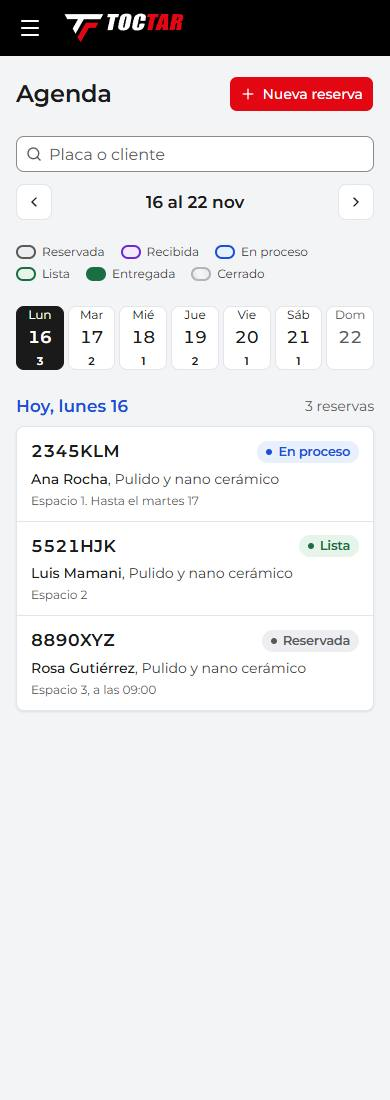
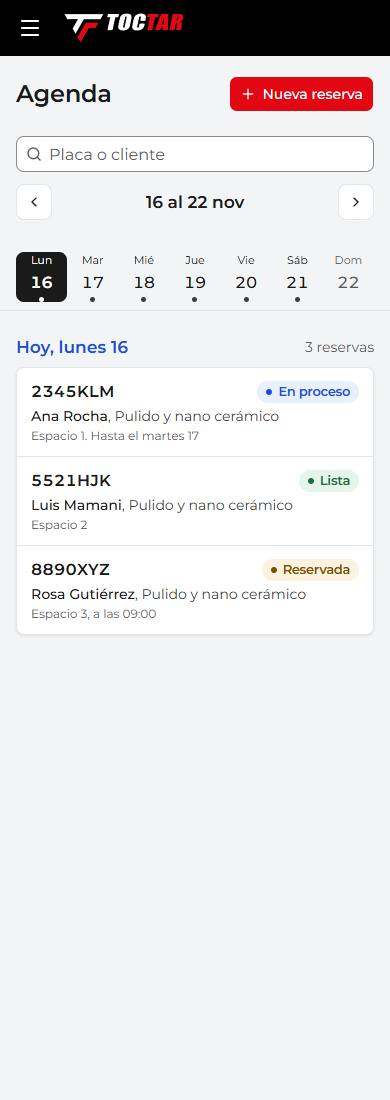
feat: Reservada en ámbar y el día del celular con la tira de días del prototipo
- Reservada, en ámbar en todo el panel; Cancelada, en rojo suave (para no repetir el ámbar).
- Celular: la tira de los siete días con un punto en los que tienen reservas, fija arriba; las reservas como en el
  prototipo y los espacios libres juntos en una fila con "Reservar". La guía de colores, solo desde la tableta.

Changed region(s): [[0.0308, 0.2164, 0.9538, 0.6491], [0.5538, 0.2164, 0.7077, 0.34], [0.5538, 0.5873, 0.5846, 0.6182]]

diff --git a/src/modulos/agenda/componentes/tablero.tsx b/src/modulos/agenda/componentes/tablero.tsx
@@ -28,7 +28,8 @@ import { conDesde } from "@/lib/volver";
 //   "Reservar" aparece al pasar el mouse o con el foco), hoy se marca en su encabezado y un día cerrado, una sola vez.
 //   Cada reserva dice placa, cliente, servicio y estado (con palabra, no solo color).
 // - Tableta y laptop chica (768 a 1279 px): la semana como lista por día ("Hoy", "Mañana", "Miércoles 18"), sin tocar pestañas.
-// - Celular: los siete días como pestañas con cuántas reservas tiene cada uno, y el día elegido en una tarjeta.
+// - Celular: la tira de los siete días (un punto en los que tienen reservas), fija arriba, y el día elegido en una
+//   tarjeta, con los espacios libres juntos en una fila.
 // Todo es texto y enlaces: se lee igual con lector de pantalla.
 
 type Props = {
@@ -73,13 +74,12 @@ function textoTramo(r: Pick<ReservaTablero, "inicio" | "fin">, dia: string) {
 
 /**
  * El color de un bloque en la grilla: el de su estado (las clases tt-tono-* de globals.css, las mismas de las
- * insignias). La reservada, gris con borde (16/11: blanca, no se distinguía bien). La entregada, sólida en verde
- * (pedido 28). La guía de colores (GuiaColores) usa estos mismos.
+ * insignias). La reservada, en ámbar (16/11: blanca no se distinguía de un día libre; gris, de uno cerrado). La
+ * entregada, sólida en verde (pedido 28). La guía de colores (GuiaColores) usa estos mismos.
  */
 function colorBloque(estado: ReservaTablero["estado"]) {
   const tono = TONO_ESTADO_TRABAJO[estado] ?? "neutro";
   if (estado === "entregado") return { tono, clase: "tt-tono-exito border-transparent bg-exito text-fondo", texto: "text-fondo", punto: "bg-fondo" };
-  // La reservada, en el gris de su insignia y con borde: no se confunde con un día libre (blanco) ni con uno cerrado (rayas)
   if (tono === "neutro") return { tono, clase: "tt-tono-neutro border-input bg-neutro-fondo", texto: "text-tinta-suave", punto: "bg-tinta-suave" };
   return { tono, clase: `tt-tono-${tono} border-transparent bg-[var(--tono-fondo)]`, texto: "text-[var(--tono)]", punto: "bg-[var(--tono)]" };
 }
@@ -306,36 +306,33 @@ export function SemanaEnLista({ semana, dias, hoy, conOrdenes, desde }: Props) {
 }
 
 /**
- * Celular: los siete días como pestañas (enlaces: el día va en la dirección). Cada una dice cuántas reservas tiene ese
- * día, o "libre" (antes un punto, que salía en casi todos los días y no decía cuál estaba lleno). Hoy, en azul.
+ * Celular: la tira de los siete días (prototipo aprobado el 16/11): el día de la semana en chico, el número y un punto en
+ * los días con reservas. Hoy, en azul; el elegido, en negro. Queda fija arriba al bajar. Cada día es un enlace (el día va
+ * en la dirección).
  */
 export function PestanasDias({ semana, dias, hoy, dia, enlace }: { semana: SemanaDeAgenda; dias: string[]; hoy: string; dia: string; enlace: (dia: string) => Route }) {
-  const conActivos = semana.espacios.some((e) => e.activo);
   return (
-    <nav aria-label="Días de la semana" className="-mx-4 overflow-x-auto px-4 md:hidden">
-      <ul className="grid min-w-max grid-cols-7 gap-1">
+    <nav aria-label="Días de la semana" className="sticky top-0 z-20 -mx-4 border-b border-border bg-fondo-panel px-4 py-2 md:hidden">
+      <ul className="grid grid-cols-7">
         {dias.map((d, i) => {
           const cerrado = semana.diasCerrados.includes(diaDeLaSemana(d));
           const n = delDia(semana, d).length;
           const elegido = d === dia;
-          const cuenta = n > 0 ? String(n) : cerrado || d < hoy || !conActivos ? "" : "libre";
+          const esHoy = d === hoy;
           return (
             <li key={d}>
               <Link
                 href={enlace(d)}
                 aria-current={elegido ? "date" : undefined}
-                aria-label={`${textoDia(d)}${d === hoy ? ", hoy" : ""}${n > 0 ? `, ${cantidad(n, "reserva", "reservas")}` : cerrado ? ", cerrado" : ", sin reservas"}`}
+                aria-label={`${textoDia(d)}${esHoy ? ", hoy" : ""}${n > 0 ? `, ${cantidad(n, "reserva", "reservas")}` : cerrado ? ", cerrado" : ", sin reservas"}`}
                 className={cn(
-                  "flex min-h-16 min-w-11 flex-col items-center justify-center gap-0.5 rounded-lg border px-1",
-                  elegido ? "border-tinta bg-tinta text-fondo" : "border-border bg-fondo",
-                  !elegido && cerrado && "text-tinta-suave",
+                  "flex min-h-12 flex-col items-center justify-center gap-0.5 rounded-lg",
+                  elegido ? "bg-tinta text-fondo" : esHoy ? "bg-info-fondo text-info" : cerrado ? "text-tinta-suave" : "text-tinta",
                 )}
               >
-                <span className="text-xs">{DIA_CORTO[i]}</span>
-                <span className={cn("text-[1.0625rem] tabular-nums", d === hoy || elegido ? "font-bold" : "font-medium", d === hoy && !elegido && "text-info")}>{numeroDia(d)}</span>
-                <span aria-hidden className={cn("min-h-4 text-[0.6875rem]", n > 0 ? "font-semibold" : elegido ? "text-fondo/80" : "text-tinta-suave")}>
-                  {cuenta}
-                </span>
+                <span className="text-[0.6875rem]">{DIA_CORTO[i]}</span>
+                <span className={cn("text-base tabular-nums", esHoy || elegido ? "font-bold" : "font-medium")}>{numeroDia(d)}</span>
+                <span aria-hidden className={cn("size-[5px] rounded-full", n > 0 ? (elegido ? "bg-fondo" : "bg-tinta-media") : "bg-transparent")} />
               </Link>
             </li>
           );
@@ -345,67 +342,52 @@ export function PestanasDias({ semana, dias, hoy, dia, enlace }: { semana: Seman
   );
 }
 
-/** Celular: un día en una tarjeta, una fila por espacio. Las pestañas de los días van arriba (PestanasDias). */
+/**
+ * Celular: el día elegido en una tarjeta (prototipo del 16/11): las reservas por espacio (placa y estado; cliente y
+ * servicio; el espacio, la hora y hasta cuándo sigue) y, al final, los espacios libres juntos en una sola fila con
+ * "Reservar". Las pestañas de los días van arriba (PestanasDias).
+ */
 export function AgendaDelDia({ semana, dia, hoy, conOrdenes, desde }: { semana: SemanaDeAgenda; dia: string; hoy: string; conOrdenes: boolean; desde: string }) {
   const cerrado = semana.diasCerrados.includes(diaDeLaSemana(dia));
-  const cuantas = delDia(semana, dia).length;
+  const del = delDia(semana, dia);
+  const libres = dia < hoy || cerrado ? [] : semana.espacios.filter((e) => e.activo && !del.some((d) => d.r.espacioId === e.id));
   return (
     <section aria-label={tituloDia(dia, hoy)} className="flex flex-col gap-2 md:hidden">
-      <CabeceraDia fecha={dia} hoy={hoy} cuantas={cuantas} cerrado={cerrado && cuantas === 0} />
-      {cerrado && cuantas === 0 ? (
+      <CabeceraDia fecha={dia} hoy={hoy} cuantas={del.length} cerrado={cerrado && del.length === 0} />
+      {cerrado && del.length === 0 ? (
         <DiaCerrado texto="Cerrado ese día" />
+      ) : del.length === 0 && libres.length === 0 ? (
+        <p className="tt-tarjeta-panel px-3.5 py-3 text-sm text-tinta-suave">Sin reservas.</p>
       ) : (
         <ul aria-label={`Espacios el ${textoDia(dia)}`} className="tt-tarjeta-panel overflow-hidden">
-          {semana.espacios.map((espacio, n) => {
-            const r = reservaDelDia(semana, espacio.id, dia);
-            const borde = n > 0 && "border-t border-border";
-            if (r) {
-              const tramo = textoTramo(r, dia);
-              const servicio = textoServicio(r);
-              return (
-                <li key={espacio.id} className={cn(borde)}>
-                  <Link href={conDesde(rutaTrabajo(r.id, r.estado, conOrdenes), desde)} data-tono={TONO_ESTADO_TRABAJO[r.estado] ?? "neutro"} className="flex flex-col gap-1 px-3.5 py-3 hover:bg-superficie/50">
-                    <span className="flex items-center justify-between gap-2">
-                      <span className="tt-placa text-[1.0625rem]">{r.placa}</span>
-                      <Insignia tono={TONO_ESTADO_TRABAJO[r.estado]}>{NOMBRE_ESTADO_TRABAJO[r.estado]}</Insignia>
-                    </span>
-                    <span className="truncate text-sm">
-                      <span className="font-medium">{r.cliente}</span>
-                      {servicio && <span className="text-tinta-media">, {servicio}</span>}
-                    </span>
-                    <span className="text-xs text-tinta-suave">
-                      {espacio.nombre}
-                      {r.hora && `, a las ${r.hora}`}
-                      {tramo && `. ${tramo}`}
-                    </span>
-                  </Link>
-                </li>
-              );
-            }
-            if (cerrado || dia < hoy || !espacio.activo) {
-              return (
-                <li key={espacio.id} className={cn("flex min-h-12 items-center px-3.5 text-sm", borde)}>
-                  <span className="font-semibold">{espacio.nombre}</span>
-                  <span className="text-tinta-suave">: {!espacio.activo ? "desactivado" : "sin reserva"}</span>
-                </li>
-              );
-            }
+          {del.map(({ r, espacio }, n) => {
+            const tramo = textoTramo(r, dia);
+            const servicio = textoServicio(r);
             return (
-              <li key={espacio.id} className={cn(borde)}>
-                <Link href={agendarEn(dia, espacio.id, desde)} className="flex min-h-13 items-center justify-between gap-3 bg-superficie/50 px-3.5 text-sm hover:bg-superficie">
-                  <span>
-                    <span className="font-semibold">{espacio.nombre}</span>
-                    <span className="text-tinta-suave">: libre</span>
+              <li key={r.id} className={cn(n > 0 && "border-t border-border")}>
+                <Link href={conDesde(rutaTrabajo(r.id, r.estado, conOrdenes), desde)} data-tono={TONO_ESTADO_TRABAJO[r.estado] ?? "neutro"} className="flex flex-col gap-0.5 px-3.5 py-3 hover:bg-superficie/50">
+                  <span className="flex items-center justify-between gap-2">
+                    <span className="tt-placa text-base">{r.placa}</span>
+                    <Insignia tono={TONO_ESTADO_TRABAJO[r.estado]}>{NOMBRE_ESTADO_TRABAJO[r.estado]}</Insignia>
                   </span>
-                  <span className="inline-flex items-center gap-1 font-semibold">
-                    <PlusIcon className="size-4" aria-hidden />
-                    Reservar
-                    <span className="sr-only"> el {textoDia(dia)}</span>
+                  <span className="truncate text-sm">
+                    <span className="font-medium">{r.cliente}</span>
+                    {servicio && <span className="text-tinta-media">, {servicio}</span>}
+                  </span>
+                  <span className="text-xs text-tinta-suave">
+                    {espacio}
+                    {r.hora && `, a las ${r.hora}`}
+                    {tramo && `. ${tramo}`}
                   </span>
                 </Link>
               </li>
             );
           })}
+          {libres.length > 0 && (
+            <li>
+              <FilaLibres libres={libres} total={semana.espacios.filter((e) => e.activo).length} fecha={dia} desde={desde} conBorde={del.length > 0} />
+            </li>
+          )}
         </ul>
       )}
     </section>
@@ -417,11 +399,12 @@ const ESTADOS_EN_LA_GUIA = ["agendado", "recibido", "en_proceso", "listo", "entr
 
 /**
  * La guía de colores de la Agenda (pedido del desarrollador, 16/11): qué estado es cada color, y el día cerrado. Los
- * mismos colores que las reservas del tablero y las insignias de la lista. Arriba, en una línea, en todos los tamaños.
+ * mismos colores que las reservas del tablero y las insignias de la lista. Arriba, en una línea, desde la tableta: en el
+ * celular cada reserva ya dice su estado escrito, en su insignia.
  */
 export function GuiaColores() {
   return (
-    <ul aria-label="Colores de la agenda" className="flex flex-wrap gap-x-4 gap-y-1.5 text-xs text-tinta-media">
+    <ul aria-label="Colores de la agenda" className="hidden flex-wrap gap-x-4 gap-y-1.5 text-xs text-tinta-media md:flex">
       {ESTADOS_EN_LA_GUIA.map((e) => (
         <li key={e} className="flex items-center gap-1.5">
           {/* El fondo de la reserva y el borde en el color fuerte del estado: un fondo pastel solo no se ve en chico */}

diff --git a/tests/e2e/hu-29-tablero.spec.ts b/tests/e2e/hu-29-tablero.spec.ts
@@ -72,10 +72,9 @@ test("las reservas ocupan sus días en su espacio; un día libre lleva a reserva
     await expect(page).toHaveURL(new RegExp(`/panel/agenda/nueva\\?fecha=${jueves}&espacio=${espacios[0].id}(?:[?&]volver=[^&#]*)?$`));
   } else {
     // Celular: un día a la vez. El martes, la reserva en el primer espacio y los demás libres
-    // El martes tiene una reserva: su pestaña dice cuántas (lavado de cara del 16/11; antes, un punto debajo del número)
+    // El martes tiene una reserva: su día lo dice (en la tira, un punto debajo del número)
     const pestanas = page.getByRole("navigation", { name: "Días de la semana" }).getByRole("link");
     await expect(pestanas.nth(1)).toHaveAccessibleName(/, 1 reserva$/);
-    await expect(pestanas.nth(1)).toContainText("1");
     // Y no todas: un día sin reservas lo dice
     const nombres = await pestanas.evaluateAll((ps) => ps.map((p) => p.getAttribute("aria-label") ?? ""));
     expect(nombres.some((n) => n.endsWith(", sin reservas") || n.endsWith(", cerrado"))).toBe(true);
@@ -83,7 +82,8 @@ test("las reservas ocupan sus días en su espacio; un día libre lleva a reserva
     await expect(page).toHaveURL(/&dia=\d{4}-\d{2}-\d{2}$/);
     const dia = page.getByRole("list", { name: /^Espacios el Martes/ });
     await expect(dia.getByRole("link", { name: new RegExp(`^TB29${s}1`) })).toBeVisible();
-    await expect(dia.getByRole("link", { name: /Reservar/ })).toHaveCount(espacios.length - 1);
+    // Los espacios libres, juntos en una sola fila con "Reservar"
+    await expect(dia.getByRole("link", { name: /Reservar/ })).toHaveCount(1);
     // Tocar la reserva la abre
     await dia.getByRole("link", { name: new RegExp(`^TB29${s}1`) }).click();
     await expect(page).toHaveURL(/\/panel\/agenda\/\d+(?:[?&]volver=[^&#]*)?$/);
@@ -94,8 +94,11 @@ test("las reservas ocupan sus días en su espacio; un día libre lleva a reserva
 test("el tablero arranca en la semana de hoy y la marca", async ({ page }, info) => {
   await ingresarComoDueno(page);
   await page.goto("/panel/agenda");
-  // La guía de colores: los cinco estados, en el orden del trabajo, y el día cerrado (16/11)
-  await expect(page.getByRole("list", { name: "Colores de la agenda" }).getByRole("listitem")).toHaveText(["Reservada", "Recibida", "En proceso", "Lista", "Entregada", "Cerrado"]);
+  // La guía de colores: los cinco estados, en el orden del trabajo, y el día cerrado (16/11). En el celular no va: cada
+  // reserva ya dice su estado escrito
+  const guia = page.getByRole("list", { name: "Colores de la agenda" });
+  if (info.project.name === "escritorio") await expect(guia.getByRole("listitem")).toHaveText(["Reservada", "Recibida", "En proceso", "Lista", "Entregada", "Cerrado"]);
+  else await expect(guia).toBeHidden();
   if (info.project.name === "escritorio") await expect(page.getByText("Hoy", { exact: true })).toBeVisible();
   // En el celular, la pestaña de hoy es la elegida (pulido 10.1: ya no se repite el día debajo)
   else await expect(page.getByRole("navigation", { name: "Días de la semana" }).getByRole("link", { name: /, hoy(,|$)/ })).toHaveAttribute("aria-current", "date");

diff --git a/src/modulos/agenda/reglas.ts b/src/modulos/agenda/reglas.ts
@@ -19,16 +19,16 @@ export const NOMBRE_ESTADO_TRABAJO: Record<EstadoTrabajo, string> = {
 };
 
 /**
- * El color de la insignia de cada estado (pedido 26), igual en todo el panel: agendada en gris, recibida en violeta, en
- * proceso en azul, lista y entregada en verde, cancelada en ámbar.
+ * El color de la insignia de cada estado (pedido 26), igual en todo el panel: reservada en ámbar (pendiente, por llegar;
+ * 16/11), recibida en violeta, en proceso en azul, lista y entregada en verde, cancelada en rojo suave.
  */
 export const TONO_ESTADO_TRABAJO: Record<EstadoTrabajo, TonoEstado | undefined> = {
-  agendado: undefined,
+  agendado: "aviso",
   recibido: "violeta",
   en_proceso: "info",
   listo: "exito",
   entregado: "exito",
-  cancelado: "aviso",
+  cancelado: "peligro",
 };
 
 /** Día de la semana de una fecha: 1 = lunes … 7 = domingo (ISO 8601, como los horarios de Configuración). */

diff --git a/docs/08-desarrollo/pulido-visual.md b/docs/08-desarrollo/pulido-visual.md
@@ -320,7 +320,7 @@ Las pantallas de C1 a C4, en el orden en que el taller las usa. Los mismos está
 | 13.61 | **Subir fotos a la galería, en un modal** (14/11, pedido del desarrollador): «Subir fotos» reemplazaba el botón por un formulario en medio de la página, que empujaba la portada elegida y la lista. Ahora abre el modal «Subir fotos» (en el celular, la hoja desde abajo), con el selector de dos botones del pulido 13.56 (Tomar foto y Elegir de la galería; en la computadora, también se suelta encima), el antes y el después lado a lado desde la tableta y uno debajo del otro en el celular, el avance en el pie (no se cierra mientras sube) y el aviso al cerrarlo con fotos elegidas. El selector compartido suma lo que tenía la zona de la galería: rechaza lo que no es una foto también al elegirla y avisa si se soltaron varias; y sus botones dicen de qué foto son para el lector de pantalla («Tomar foto del después»). Pruebas: hu-09, base, hu-10 y hu-12. |
 | 13.62 | **El lavado de cara de la Agenda** (16/11, prototipo aprobado ese día): en la computadora, cada día libre era un recuadro punteado con «+» (unos 15 por semana) y las reservas se perdían entre ellos; «Cerrado» iba en un bloque gris por espacio; hoy solo se marcaba en su encabezado; las reservas decían placa y servicio cortado, sin el cliente. La tableta usaba la vista del celular (un día, con media pantalla vacía) y en el celular el punto de «tiene reservas» salía en casi todos los días. No había buscador. Ahora: un **buscador** de reservas de cualquier semana por placa, cliente o teléfono (`buscarReservas`, las próximas primero y después las pasadas, hasta 30); **lo de hoy** en una línea (por recibir, en el taller y para entregar, `resumenDeHoy`); «**Por reservar**» plegado en una fila con su cuenta. **Computadora** (desde 1280 px; en una laptop de 1024, con el menú, cada día medía 80 px): los días libres sin recuadro (el «Reservar» aparece al pasar el mouse o con el foco), hoy enmarcado en toda su columna, el día cerrado una sola vez con rayas a 60° y cada reserva con placa, cliente, servicio, estado escrito y hora si se acordó. **Tableta y laptop chica:** la semana como lista por día («Hoy, lunes 16», «Mañana, martes 17»), con los espacios libres juntos en una fila con «Reservar». **Celular:** las pestañas dicen cuántas reservas tiene cada día (o «libre») y el día va en una sola tarjeta, con los libres en una fila baja. Pruebas: hu-29 (con el buscador), hu-34-historial, p31 y reserva-empieza-de-cero. |
 | 13.63 | **La Agenda más limpia** (16/11, revisión del desarrollador sobre 13.62): el marco azul de hoy en toda la columna quedaba debajo de las reservas y se cortaba donde una cruzaba al día siguiente; hoy se marca solo en su encabezado («Lun 16 Hoy», en azul). Se quitó lo de hoy (por recibir, en el taller y para entregar): llevaba a otras pantallas y, ya en una línea de texto, sobraba; la semana ya lo muestra. «Por reservar» queda arriba del tablero, a lo ancho. Prueba: hu-29. |
-| 13.64 | **La guía de colores de la Agenda** (16/11, pedido del desarrollador): arriba del tablero, en una línea y en todos los tamaños, qué estado es cada color (Reservada, Recibida, En proceso, Lista y Entregada, en el orden del trabajo) y el día cerrado (`GuiaColores`, con los mismos colores del tablero). La reserva que todavía no llegó ya no es blanca: va en el gris de su insignia, con borde, así no se confunde con un día libre (blanco) ni con uno cerrado (rayas). Cada cuadrito de la guía lleva el borde en el color fuerte de su estado: el fondo pastel solo no se veía en chico. Prueba: hu-29. |
+| 13.64 | **La guía de colores y la Agenda del celular** (16/11, prototipo aprobado ese día): arriba del tablero, desde la tableta, qué estado es cada color (Reservada, Recibida, En proceso, Lista y Entregada) y el día cerrado (`GuiaColores`, con el borde de cada cuadrito en el color fuerte del estado). **Reservada pasa a ámbar** en todo el panel (pendiente, por llegar): blanca se confundía con un día libre y gris, con uno cerrado; **Cancelada pasa a rojo suave**, para no repetir el ámbar. En el celular, un día a la vez con el formato del prototipo: la tira de los siete días (el día en chico, el número y un punto en los que tienen reservas; hoy en azul y el elegido en negro), fija arriba al bajar; las reservas con placa y estado, cliente y servicio, y el espacio, la hora y hasta cuándo sigue; y los espacios libres juntos en una fila con «Reservar». Sin la guía: cada reserva ya dice su estado escrito. Pruebas: hu-29, hu-30, hu-31, hu-34, hu-39 y una-pantalla-por-trabajo. |
 
 **Cobertura** (revisada el 24/10 contra todas las rutas de `src/app` y `public/`): cada pantalla del sitio, el ingreso y el panel está en un grupo. Lo que no tiene ruta propia se revisa dentro de su pantalla:
 - **Los diálogos:** el historial de precios va en 7.3, el visor de fotos en 11.2 y 11.3, y el comprobante en 10.3 y 11.4.
